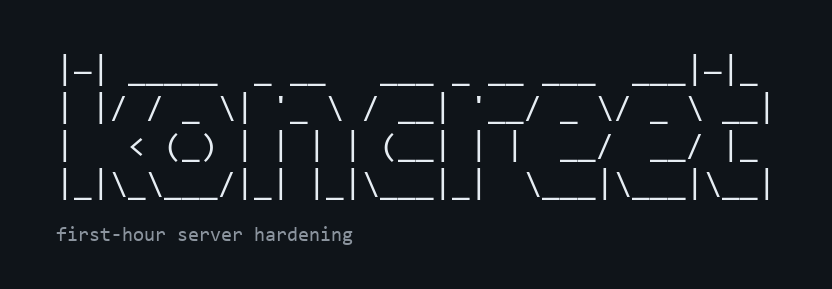
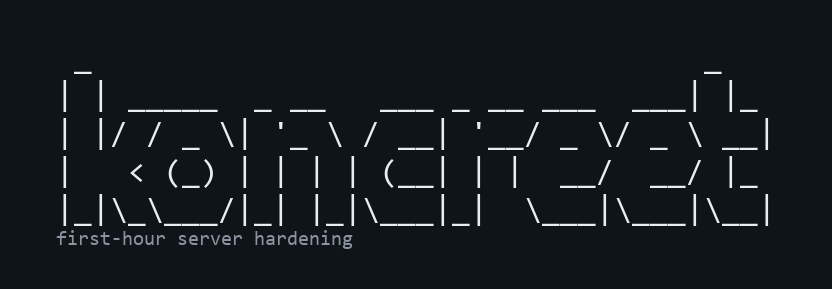
feat: add versioning, curl install, and release workflow
Ship VERSION/0.1.0, a git-free install.sh one-liner, and tag-triggered
GitHub Releases. Prefer the SVG banner and fix clipped k/t caps.

diff --git a/README.md b/README.md
@@ -1,7 +1,7 @@
 # Koncreet
 
 <p align="center">
-  <img src="assets/banner.png" alt="koncreet — first-hour server hardening" width="832" />
+  <img src="assets/banner.svg" alt="koncreet — first-hour server hardening" width="832" />
 </p>
 
 First-hour hardening toolkit for a new Linux VPS. Readable Bash, lockout-safe defaults, optional config for power users.
@@ -27,6 +27,23 @@ First-hour hardening toolkit for a new Linux VPS. Readable Bash, lockout-safe de
 
 ## 60-second start
 
+No git required (Debian/Ubuntu VPS with `curl`):
+
+```bash
+curl -fsSL https://raw.githubusercontent.com/jimididit/koncreet/main/install.sh | sudo bash
+sudo koncreet
+```
+
+After the first GitHub Release, the same one-liner can use the release asset (also what CI publishes):
+
+```bash
+curl -fsSL https://github.com/jimididit/koncreet/releases/latest/download/install.sh | sudo bash
+```
+
+Pin a version: `KONCREET_VERSION=0.1.0` before the pipe. Installs into `/opt/koncreet` and symlinks `koncreet` onto your PATH.
+
+Or clone with git:
+
 ```bash
 git clone https://github.com/jimididit/koncreet.git && cd koncreet
 sudo ./koncreet                  # interactive menu - prints a change plan first
@@ -42,6 +59,17 @@ sudo ./koncreet apply -c ./koncreet.conf --yes         # apply
 sudo ./koncreet status
 ```
 
+## Versioning
+
+Current version lives in [`VERSION`](VERSION) (semver). Check with `koncreet version` (no root needed).
+
+To cut a release:
+
+1. Bump `VERSION` (e.g. `0.1.0` → `0.2.0`) and commit
+2. Tag matching that file: `git tag v0.2.0 && git push origin v0.2.0`
+3. GitHub Actions builds `koncreet.tar.gz` + attaches `install.sh` to the release
+
+The tag **must** be `v` + the contents of `VERSION` or the release workflow fails.
 ## Commands
 
 ```text
@@ -59,9 +87,10 @@ sudo ./koncreet updates apply --reboot --reboot-hour 04:00
 sudo ./koncreet ssh check | apply | undo
 sudo ./koncreet self-install             # symlink into /usr/local/bin
 sudo ./koncreet self-uninstall
+./koncreet version                       # no root required
 ```
 
-Global flags: `-n` / `--dry-run`, `-y` / `--yes`, `-c` / `--config FILE`, `-v` / `--verbose`.
+Global flags: `-n` / `--dry-run`, `-y` / `--yes`, `-c` / `--config FILE`, `-v` / `--verbose`, `-V` / `--version`.
 
 `sheriff` is an alias of `fail2ban` (same commands either way).
 
